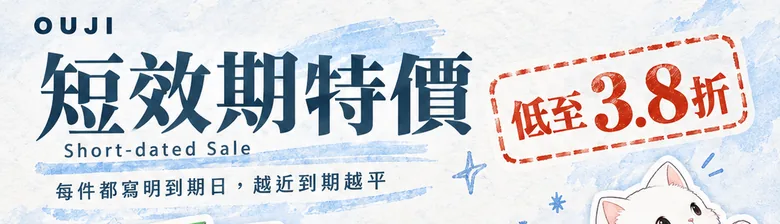
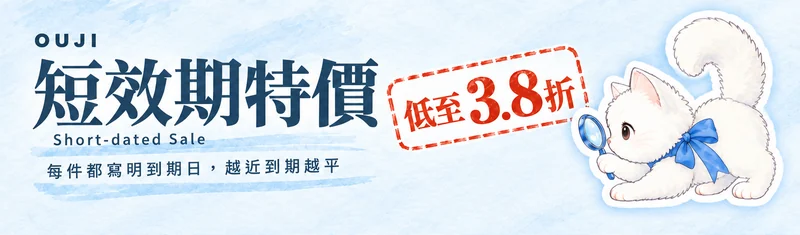
今期著數：短效期卡換背景簡潔版、手機橫額重新生成同其他兩條一樣高
- 桌面：Winston 原海報以 ChatGPT 淨化背景，所有價錢／折數／到期日照留
- 手機：另出一張橫額（唔再裁海報頂），三條橫額統一 100px 高

diff --git a/index.html b/index.html
@@ -518,7 +518,7 @@
       </div>
       <div class="little-perks__mob">
         <a class="little-perks__hero" href="shop.html"><img src="assets/images/home/little-perks-1472.webp" width="1472" height="964" loading="lazy" decoding="async" alt="好物，有禮。購物滿 HK$399 即減 HK$20；購物滿 HK$599 加碼送 ROUND LAB 白樺樹保濕面霜 80ml"></a>
-        <a class="little-perks__row little-perks__row--short" href="short-dated.html"><img src="assets/images/home/perks/row-short.webp" width="780" height="224" loading="lazy" decoding="async" alt="OUJI 短效期特價，低至 3.8 折，每件都寫明到期日"></a>
+        <a class="little-perks__row little-perks__row--short" href="short-dated.html"><img src="assets/images/home/perks/row-short.webp" width="800" height="235" loading="lazy" decoding="async" alt="OUJI 短效期特價，低至 3.8 折，每件都寫明到期日"></a>
         <a class="little-perks__row little-perks__row--lip" href="seasonal.html?cat=lip">
           <img src="assets/images/home/perks/cover-lip.webp" width="720" height="900" loading="lazy" decoding="async" alt="">
           <div class="little-perks__row-txt"><p class="little-perks__row-k">Season Change / 轉季</p><p class="little-perks__row-h">秋冬，<span>潤唇</span>先。</p><p class="little-perks__row-s">AMUSE × Sanrio 聯名潤唇膏</p></div>

diff --git a/home-top.css b/home-top.css
@@ -495,8 +495,7 @@ a.little-perks__cv:hover .little-perks__go { background: #22384a; color: #fff; b
 .little-perks__hero { display: block; border-radius: 20px; overflow: hidden; box-shadow: 0 10px 28px rgba(70, 96, 114, .1); }
 .little-perks__hero img { display: block; width: 100%; height: auto; }
 .little-perks__row { position: relative; display: block; height: 100px; border-radius: 16px; overflow: hidden; color: inherit; text-decoration: none; box-shadow: 0 1px 2px rgba(40, 60, 80, .06), 0 6px 16px rgba(40, 60, 80, .08); }
-.little-perks__row--short { height: auto; }
-.little-perks__row--short img { display: block; width: 100%; height: auto; }
+.little-perks__row--short img { display: block; width: 100%; height: 100%; object-fit: cover; }
 .little-perks__row--lip { background: linear-gradient(100deg, #f6eefb 0%, #efe2f6 55%, #e9d9f3 100%); }
 .little-perks__row--lip img { position: absolute; right: 0; top: 0; height: 100%; width: 52%; object-fit: cover; object-position: 62% 46%; -webkit-mask-image: linear-gradient(90deg, transparent 0, #000 30%); mask-image: linear-gradient(90deg, transparent 0, #000 30%); }
 .little-perks__row-txt { position: absolute; z-index: 1; left: 18px; top: 50%; transform: translateY(-50%); max-width: 58%; }
